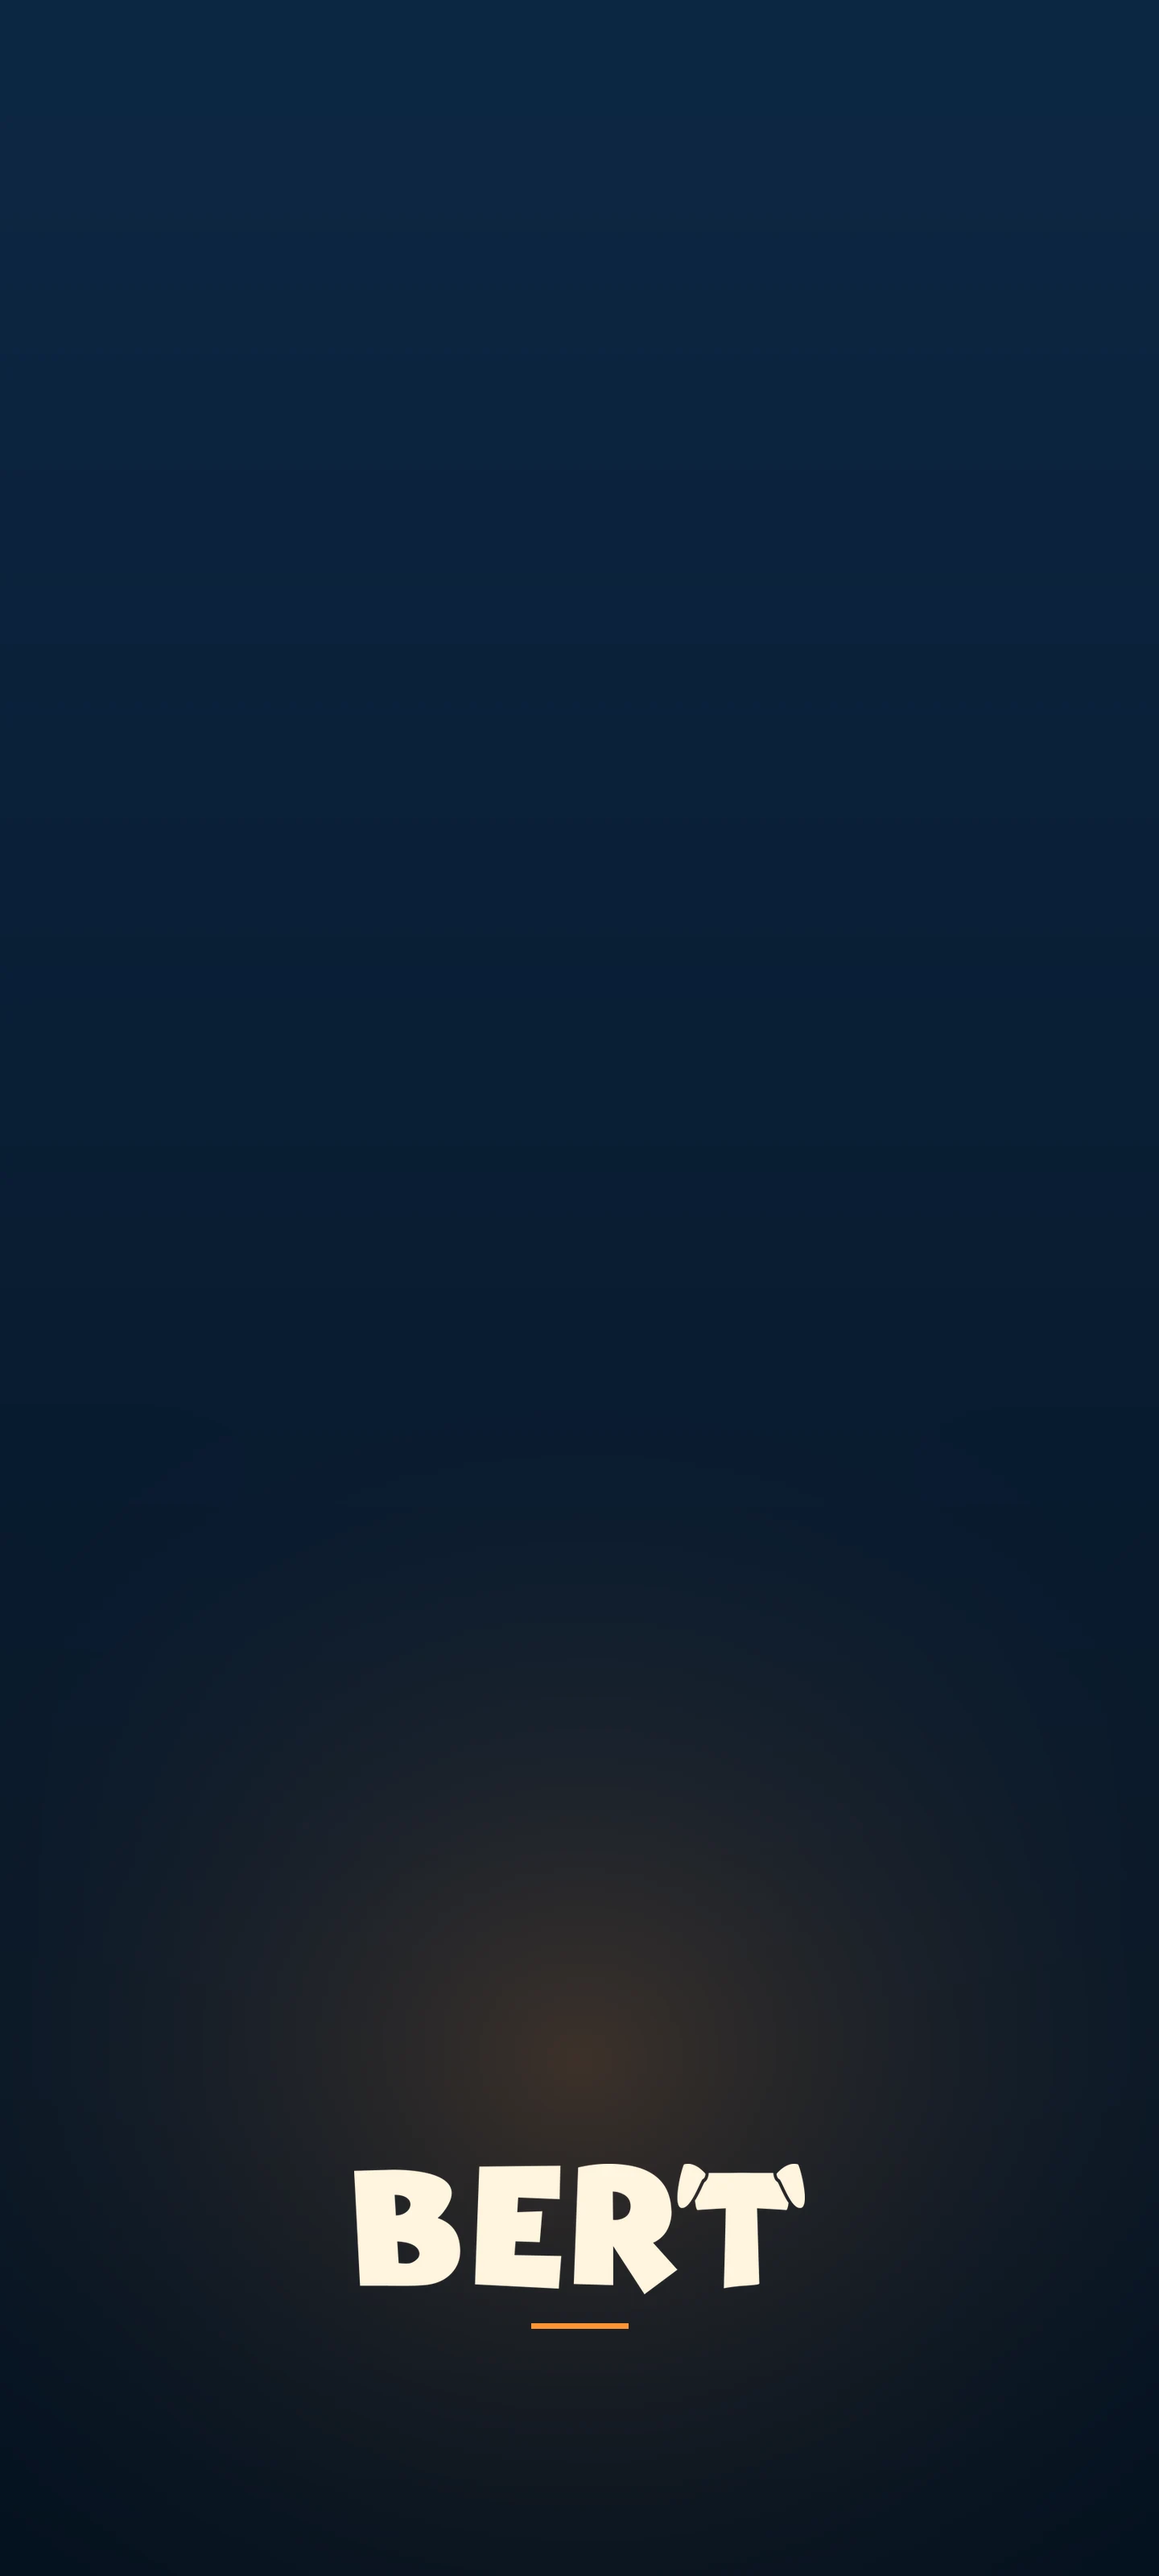
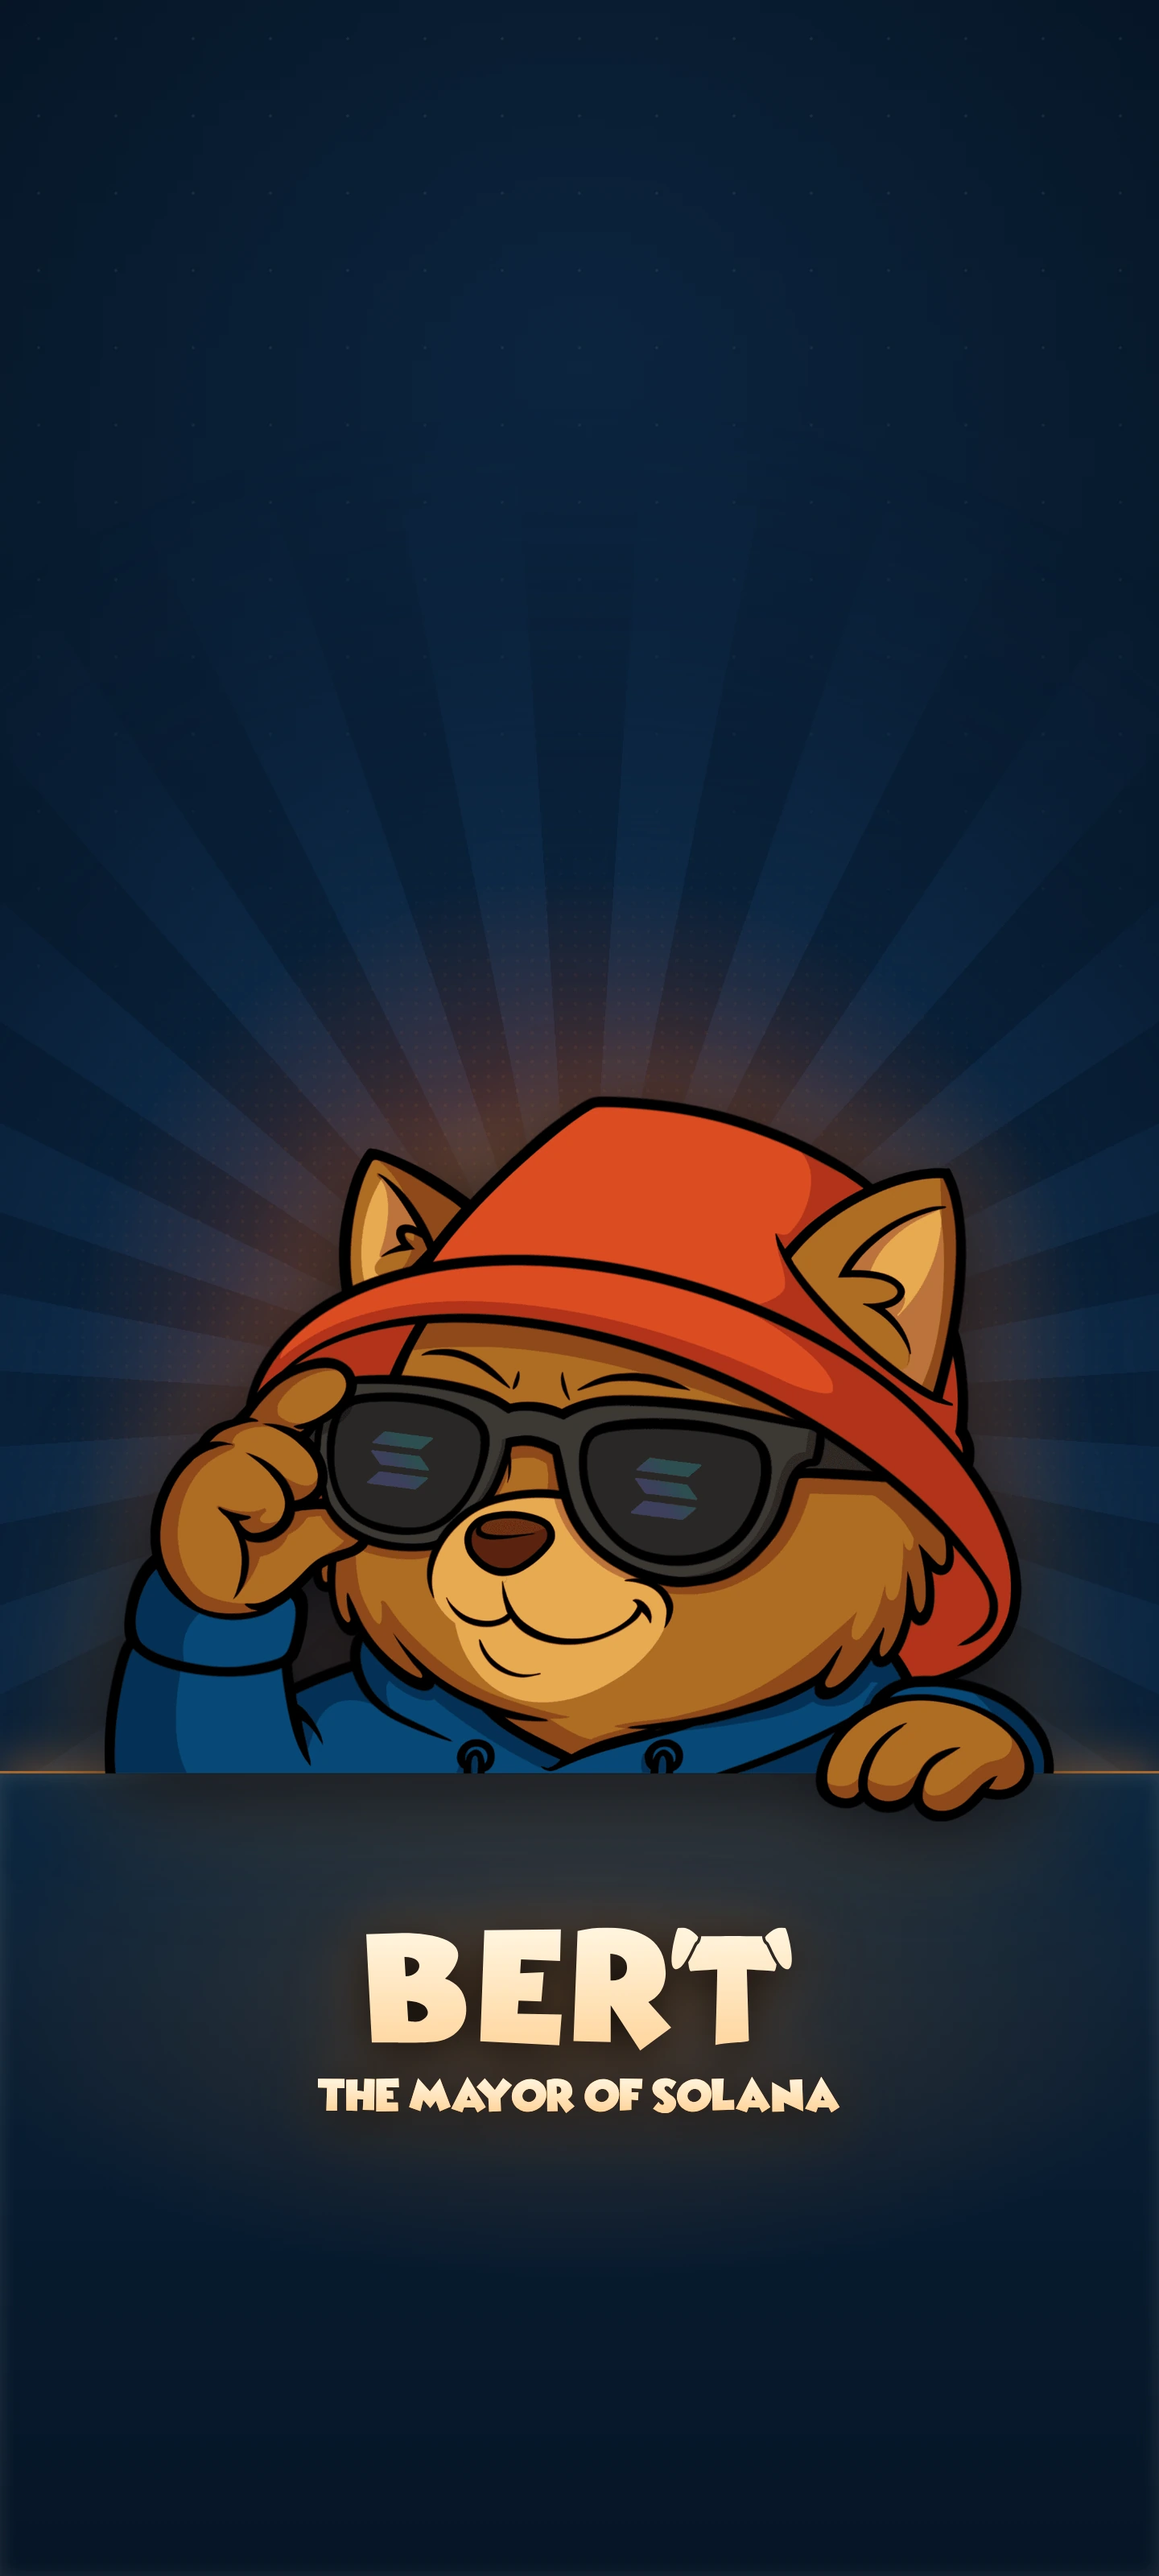
BERT 0.13.1: new BERT Navy and BERT Violet wallpapers
Bert on a sunburst behind a ledge for both packs (home, lock and picker
previews), checked on a Galaxy S25: the home masters keep the dock band
clear, and the lock tagline has no underline where One UI prints the
charging line. Nothing else changes.

Release record in docs/evidence/2026-10-24/release-0.13.1/.

diff --git a/docs/evidence/2026-10-24/release-0.13.1/check-apk.py b/docs/evidence/2026-10-24/release-0.13.1/check-apk.py
@@ -1,0 +1,96 @@
+import sys
+sys.excepthook = sys.__excepthook__
+import pathlib, zipfile, hashlib, json, subprocess
+apk=pathlib.Path(sys.argv[1]);root=pathlib.Path(__file__).resolve().parents[4]
+with zipfile.ZipFile(apk) as z:
+    game=z.read('assets/games/lost-trail/index.html')
+    provenance=json.loads(z.read('assets/games/lost-trail/provenance.json'))
+    assert game==(root/'android/app/src/main/assets/games/lost-trail/index.html').read_bytes()
+    assert hashlib.sha256(game).hexdigest()==provenance['sha256']
+    dex=b''.join(z.read(n) for n in z.namelist() if n.endswith('.dex'))
+    assert b'https://appassets.androidplatform.net/lost-trail/index.html?app' in dex
+    assert b'LostTrailActivity' in dex
+    assert b'10.0.2.2' not in dex
+    # 0.7.0: phones fetch market data directly; the Berthalla routes remain the fallback.
+    for endpoint in [b'https://api.dexscreener.com/token-pairs/v1/solana/', b'https://api.geckoterminal.com/api/v2', b'https://berthalla.io/widget/api/quote', b'https://berthalla.io/widget/api/history']:
+        assert endpoint in dex, endpoint
+manifest=subprocess.check_output(['/opt/android-sdk/build-tools/36.0.0/aapt','dump','xmltree',str(apk),'AndroidManifest.xml'],text=True)
+assert 'android:debuggable' not in manifest or 'android:debuggable(0x0101000f)=(type 0x12)0x0' in manifest
+# 0.8.0: notifications are opt-in alerts; WorkManager's unused foreground service is removed for Play.
+assert 'android.permission.POST_NOTIFICATIONS' in manifest
+assert 'android.permission.FOREGROUND_SERVICE' not in manifest and 'SystemForegroundService' not in manifest
+assert 'global.bert.widget.widget.BERTDailyWidgetReceiver' in manifest
+activity=manifest.split('global.bert.widget.LostTrailActivity',1)[1].split('E: activity',1)[0]
+assert 'android:exported(0x01010010)=(type 0x12)0x0' in activity,activity
+print(json.dumps({'apkSha256':hashlib.sha256(apk.read_bytes()).hexdigest(),'game':provenance,'isolatedActivity':True,'productionEndpointsOnly':True},indent=2))
+# 0.8.1: the redesigned Bert widget's art must survive resource shrinking.
+resources=subprocess.check_output(['/opt/android-sdk/build-tools/36.0.0/aapt','dump','resources',str(apk)],text=True)
+for name in ['drawable/bert_widget_portrait','drawable/bert_widget_banner','drawable/bert_widget_glow']:
+    assert name in resources, name
+print('0.8.1 widget art present')
+# 0.8.2: deep links, About links and the fixed feed agent survive R8; the launcher activity is singleTop.
+for needle in [b'global.bert.widget.ENTRY', b'BERT-Android', b'https://berthalla.io/app/privacy/', b'https://github.com/Dr-Inker/bert-widget/issues']:
+    assert needle in dex, needle
+main=manifest.split('global.bert.widget.MainActivity',1)[1].split('E: activity',1)[0]
+assert 'android:launchMode(0x0101001d)=(type 0x10)0x1' in main, main
+assert 'versionCode' in manifest and '(type 0x10)0x1e' in manifest.split('versionCode',1)[1][:40], 'versionCode 30'
+print('0.8.2+ deep links, About links, feed agent, singleTop present')
+# 0.9.1: the living Bert, wordmark and widget previews survive resource shrinking; shortcuts point at this package.
+for name in ['drawable/bert_f10','drawable/bert_walk','drawable/bert_wordmark','drawable/widget_preview_compact','drawable/widget_preview_market','drawable/widget_preview_bert']:
+    assert name in resources, name
+# Resource shrinking renames res/ paths, so find the shortcuts file through the resource table.
+import re
+paths = subprocess.check_output(['/opt/android-sdk/build-tools/36.0.0/aapt2','dump','resources',str(apk)],text=True)
+spath = re.search(r'xml/shortcuts[^\n]*\n\s*\(\) \(file\) (\S+)', paths).group(1)
+shortcuts = subprocess.check_output(['/opt/android-sdk/build-tools/36.0.0/aapt','dump','xmltree',str(apk),spath],text=True)
+assert shortcuts.count('global.bert.widget') >= 3 and 'global.bert.widget.preview' not in shortcuts, shortcuts
+print('0.9.1 art, previews and shortcut package present')
+# 0.10: My Bert reaches only its three hosts and survives R8; the gate banner and mood stills survive shrinking.
+for needle in [b'api-mainnet.magiceden.dev', b'https://api.mainnet-beta.solana.com', b'green-advanced-mule-774.mypinata.cloud',
+               b'AYh4yso4fZUVHEMMpS3wXxwZt1TgYnbFPb5c4y5LDFFS', b'getProgramAccounts', b'getAssetBatch']:
+    assert needle in dex, needle
+assert b'magiceden.io/marketplace' not in dex, 'no marketplace link in 0.10'
+for name in ['drawable/bert_mood_content','drawable/bert_mood_giddy','drawable/bert_mood_melancholy']:
+    assert name in resources, name
+assert 'android:allowBackup(0x01010280)=(type 0x12)0x0' in manifest, 'backup stays off'
+print('0.10 My Bert hosts, no marketplace link, mood stills, backup off')
+# 0.11: BERT Violet survives shrinking: the five Outfit weights, the kit wordmark, the violet pack, and the font licence.
+for name in ['font/outfit_regular','font/outfit_medium','font/outfit_semibold','font/outfit_bold','font/outfit_extrabold',
+             'drawable/bert_wordmark_brand','raw/wallpaper_bert_violet_home','raw/wallpaper_bert_violet_lock','drawable/preview_bert_violet']:
+    assert name in resources, name
+assert 'font/outfit_variable' not in resources, 'the Thin-default variable font is gone'
+with zipfile.ZipFile(apk) as z:
+    assert b'SIL OPEN FONT LICENSE' in z.read('assets/licences/OFL-Outfit.txt').upper()
+assert b'bert-violet' in dex and b'berthalla-navy' in dex, 'scheme and pack ids'
+print('0.11 BERT Violet fonts, wordmark, pack and OFL present')
+# 0.12: Bert's garden survives shrinking: every time of day (square and wide), the nap and pat poses, the garden
+# widget and its preview, Gochi Hand and its licence.
+# Home draws the wide bake; the widget uses both. The window-off night is Home's only, so only its wide bake ships.
+for t in ['dawn','day','golden','dusk','night']:
+    for prefix in ['drawable/place_','drawable/place_wide_']:
+        assert prefix+t in resources, prefix+t
+assert 'drawable/place_wide_nightoff' in resources
+for name in ['drawable/bert_mood_asleep','drawable/bert_pat','drawable/widget_preview_place','font/gochi_hand']:
+    assert name in resources, name
+with zipfile.ZipFile(apk) as z:
+    assert b'SIL OPEN FONT LICENSE' in z.read('assets/licences/OFL-GochiHand.txt').upper()
+assert 'global.bert.widget.widget.BERTPlaceWidgetReceiver' in manifest
+assert b'you woke the mayor.' in dex or b'you woke the mayor' in dex, 'the night-window line'
+print('0.12 garden scenes, poses, garden widget, Gochi Hand and OFL present')
+# 0.12 replaced Home's garden banner with Bert's place; the unused banner art is rightly shrunk away.
+assert 'drawable/today_garden' not in resources, 'the old garden banner should be gone'
+# 0.13: Explore became Play (games and music) and its links moved to Home's "Around the pack" sheet; Personalise is
+# Tools › Style. The Lost Trail picture both screens use survives shrinking.
+assert b'Off the lead.' in dex and b'Around the pack' in dex and b'around the pack' in dex, 'Play and the pack sheet'
+assert b'Follow your nose.' not in dex, 'the Explore screen is gone'
+assert 'drawable/lost_trail' in resources
+print('0.13 Play, Around the pack, no Explore, Lost Trail art present')
+# 0.13.1: the new BERT Navy and BERT Violet wallpapers ship byte for byte (raw resources are stored, not recompressed),
+# and the picker previews survive shrinking.
+with zipfile.ZipFile(apk) as z:
+    for name in ['wallpaper_bert_navy_home','wallpaper_bert_navy_lock','wallpaper_bert_violet_home','wallpaper_bert_violet_lock']:
+        rpath = re.search(r'raw/' + name + r'[^\n]*\n\s*\(\) \(file\) (\S+)', paths).group(1)
+        assert z.read(rpath) == (root/f'android/app/src/main/res/raw/{name}.webp').read_bytes(), name
+for name in ['drawable/preview_bert_navy','drawable/preview_bert_violet']:
+    assert name in resources, name
+print('0.13.1 Navy and Violet wallpapers match the source byte for byte; previews present')

diff --git a/docs/evidence/2026-10-24/release-0.13.1/README.md b/docs/evidence/2026-10-24/release-0.13.1/README.md
@@ -1,0 +1,50 @@
+# BERT v0.13.1: new BERT Navy and BERT Violet wallpapers
+
+**LIVE 24 October 2026** (owner: "run it"): `/opt/berthalla` fast-forwarded `dd49f44` → `253c2c0`; `check-page.cjs public` passes (1440/768/390/320, no overflow, 6 downloads, 0.13.1); `bert-widget-0.13.1.apk` serves `bf78bfbb…`. The unversioned `bert-widget.apk` was still a Cloudflare HIT for 0.13.0 (`max-age=14400`, cached at the 0.13.0 launch; origin already serves `bf78bfbb…`); it expires by itself within 4 h, and no purge tool exists here. Rollback: `git -C /opt/berthalla reset --hard dd49f44`. Staged earlier the same day; App source `54cb48f` (branch
+`v0131-wallpapers`, on `v013-nav` at the live 0.13.0 record `35ee3a7`).
+
[1 lines of base64/hex data omitted]
+  Certificate `f911463d…` (same as 0.13.0). About 0.4 MB larger than 0.13.0: the richer wallpaper art.
[1 lines of base64/hex data omitted]
+  (`cdada20a…`). All in `/opt/bert-widget-qa/release-0.13.1/staged/` with `release.json`.
+- **Website:** branch `release-0.13.1` at `253c2c0` in `/opt/bert-widget-site-release`, on the live head `dd49f44`.
+  To go live (owner says "run it"): `git -C /opt/berthalla merge --ff-only release-0.13.1`, then
+  `node docs/evidence/2026-10-24/release-0.13.1/check-page.cjs public`. Rollback:
+  `git -C /opt/berthalla reset --hard dd49f44` (`/opt/bert-widget-qa/release-0.13.1/previous-berthalla-head.txt`).
+- **Play kit:** `bert-0.13.1.aab` and `mapping-0.13.1.txt` copied to the PC's `BERT-Play\` (hashes match). The listing
+  and screenshots there were refreshed the same day (0.13's `LISTING.md`, `4-play.png`); the 12 October set is in
+  `superseded-listing-2026-10-12\`. No Play screenshot shows Navy or Violet, so none change.
+
+## Change
+
+Only the BERT Navy and BERT Violet wallpaper packs (home, lock, picker previews) and the version. Artwork by
+Antigravity, owner-approved ("they look great"). Checked on the S25 with a preview build; two fixes from that check:
+the home wordmark sat behind the dock (removed), and One UI's charging line struck through the lock tagline's underline
+(removed). Masters, assets and the byte-exact render recipe: `/opt/bert-widget-qa/wallpaper-sources-navy-violet/`.
+
+## Gates
+
+- `tools/check-mobile-game.sh` passes at `54cb48f` (unit tests, lint, Node tests, Lost Trail browser check):
+  `/opt/bert-widget-qa/release-0.13.1/gate-54cb48f.log`. An earlier full host run on the same art (before the bump)
+  saw `BERTUiTest.widgetStepOpensPersonaliseInTools` flake once; it passes alone on 0.13.0 and 0.13.1 and in full runs.
+- `lintRelease`, `assembleRelease`, `bundleRelease` pass (`release-build-54cb48f.log`).
+- `check-apk.py` passes (`check-apk.txt`). New 0.13.1 check: the four WebPs inside the APK equal the source files byte
+  for byte. Against the 0.13.0 APK it fails (versionCode; with that check bypassed, on `wallpaper_bert_navy_home`).
+- `verify-release.mjs … 29` passes (`verify-release.txt`).
+- `check-page.cjs staged` passes at 1440, 768, 390 and 320: no overflow, 6 downloads, 0.13.1 throughout. The BERT
+  Violet theme card on `/app/` shows the new art (`theme-bert-violet-{lock,home}.jpg`, Lanczos 360×800, q88, `?v=0131`).
+- The website suite passes: 956 passed, 39 skipped (`website-pytest.txt`; the pre-commit hook ran it again).
+
+## Independent review
+
+One Opus review agent over `35ee3a7..54cb48f`: **SHIP**, no must-fix. Diff is exactly the eight intended files; all
+four WebPs decode at 1440×3200 RGB in the same lossy VP8 container as before; previews match the lock masters; home
+masters have nothing in the dock band, lock masters have no underline; `BERTThemePack.kt` wiring unchanged; only
+`build.gradle.kts` carries the version. Nit (intended): the theme-studio README points to sources outside the repo.
+
+## Device
+
+Preview builds with the new art were applied on the S25 (Navy home and lock, Violet home; fixed Navy home). The lock
+underline fix was not seen on the phone (unplugged by then); its render differs from the checked one only in that bar.
+The owner's phone was restored to Berthalla Nights. The real app on the S25 is the Play install; it gets 0.13.1 once
+the AAB is uploaded.

diff --git a/docs/NEXT-SESSION.md b/docs/NEXT-SESSION.md
@@ -1,5 +1,16 @@
 # Next session — BERT app
 
+## 0.13.1 IS LIVE (24 October 2026): website `253c2c0`; Play upload of `bert-0.13.1.aab` owed by the owner
+
+(Staging memo kept for the record:)
+
+0.13.1 (30) from `54cb48f` (branch `v0131-wallpapers`, worktree `/opt/bert-widget-wallpapers`) is staged: record
+`docs/evidence/2026-10-24/release-0.13.1/README.md`; files in `/opt/bert-widget-qa/release-0.13.1/staged/`; website
+`release-0.13.1` at `253c2c0` (on live `dd49f44`). AAB and mapping already on the PC in `BERT-Play\`, and the Play
+listing/screenshots there were refreshed to 0.13. Owed by the owner: "run it" for the live ff; the Play upload of
+`bert-0.13.1.aab`. After going live: GitHub via the squash recipe (`commit-tree HEAD^{tree} -p origin/main` after a
+scrub scan; main is `5d94274`).
+
 ## START HERE (memo 24 October 2026): new Navy and Violet wallpapers, ready for the release after 0.13.0
 
 Antigravity redrew BERT Navy and BERT Violet (home, lock, picker previews): big Bert on a sunburst behind a ledge.
@@ -22,7 +33,9 @@ Owner: "they look great", then "take the lead on sorting everything". Branch `wa
 - Accepted by the owner, don't re-raise: Violet resembles Mayor Purple; no pack is plain any more.
 - Review page: https://claude.ai/artifact/A6DLpVsGegxtpNgYeLkEHk
 
-## START HERE (memo 23 October 2026, later): 0.13.0 STAGED, awaiting "run it"
+## 0.13.0 IS LIVE (24 October 2026): website `dd49f44`, GitHub main `5d94274`, the S25 has it from Play
+
+(Memo of 23 October 2026, later, kept for the record:)
 
 0.13.0 (29) from `b6e2f8f` (Play + Around the pack sheet + Tools › Style, and 0.12.1's Lost Trail fixes) is staged:
 record `docs/evidence/2026-10-23/release-0.13.0/README.md`; files in `/opt/bert-widget-qa/release-0.13/staged/`;

diff --git a/docs/evidence/2026-10-23/release-0.13.0/README.md b/docs/evidence/2026-10-23/release-0.13.0/README.md
@@ -1,6 +1,6 @@
 # BERT v0.13.0: Play, and Tools › Style
 
-**STAGED, not live (23 October 2026); website staged at `dd49f44`.** App source `b6e2f8f` (branch `v013-nav`, on `v0121-trail`, so it carries
+**LIVE 24 October 2026** (owner: "run it"): `git -C /opt/berthalla merge --ff-only release-0.13` took the site from `6ce943d` to `dd49f44`; `check-page.cjs public` passes (1440/768/390/320, no overflow, 6 downloads, 0.13.0), and the live `bert-widget.apk` is `a07cb4f6…`. Rollback: `git -C /opt/berthalla reset --hard 6ce943d`. GitHub `main` = `5d94274` (squashed onto `76f21e5`, scrub scan clean). Play: the S25 already runs 0.13.0 (29) from Play. Staged 23 October 2026. App source `b6e2f8f` (branch `v013-nav`, on `v0121-trail`, so it carries
 0.12.1's Lost Trail fair jumps and auto-run controls).
 
 - **APK 0.13.0 (29):** 6,950,778 bytes (the same length as 0.12.1 by alignment padding; contents differ),

diff --git a/design/theme-studio/README.md b/design/theme-studio/README.md
@@ -10,6 +10,10 @@ Production artwork for the Theme Studio. Every pack has a clock-safe Lock master
 
 The older Mayor and Berthalla SVG compositions are retained as revision history, but are not production inputs. The V2 raster masters remove the landscape-source boundaries that were visible in V1.
 
+- BERT Navy and BERT Violet (`wallpaper_bert_{navy,violet}_*`, redrawn 24 Oct 2026): HTML masters, assets and render
+  steps live outside the repo in `/opt/bert-widget-qa/wallpaper-sources-navy-violet/` (one asset is from the private
+  brand kit). Home masters carry no wordmark: on phones the dock covers that band.
+
 ## Source provenance
 
 - `sources/bert-mayor-official.png` was served publicly by `bert.global` at `framerusercontent.com/images/3aLB5eoA6lFqSfok88rL6hS2cQ.png`.
